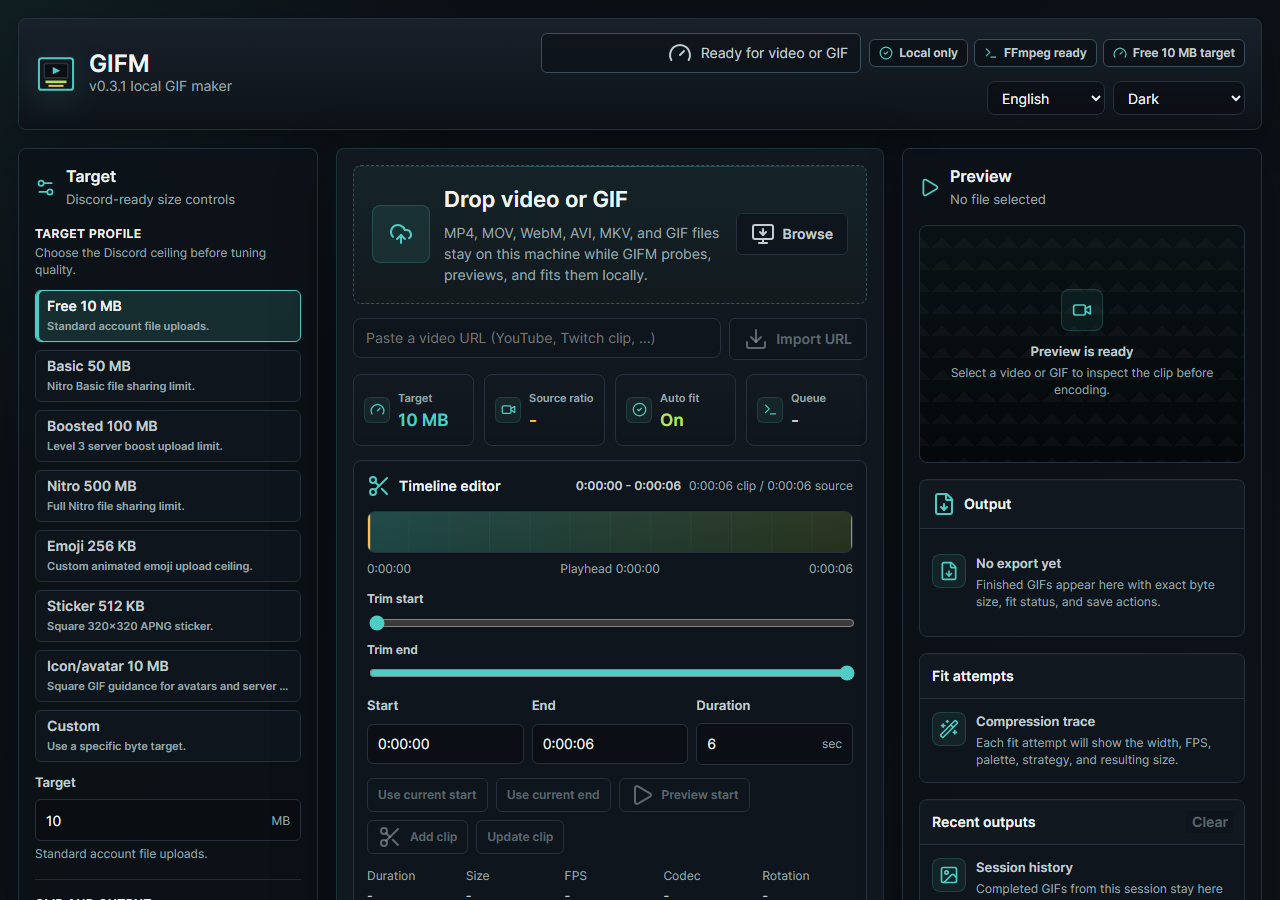
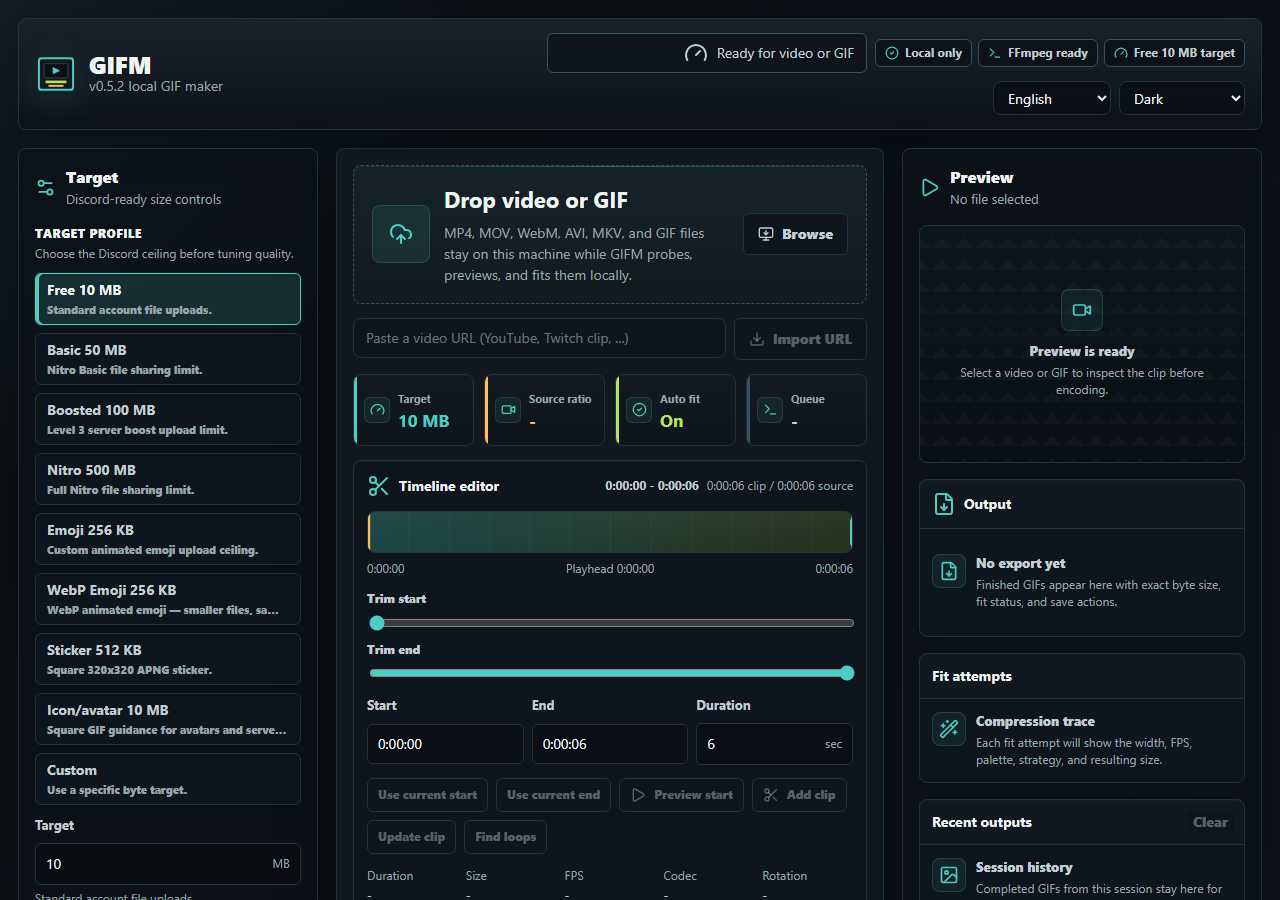
test: stabilize smoke timing and refresh screenshot

diff --git a/CHANGELOG.md b/CHANGELOG.md
@@ -12,6 +12,7 @@
 - UX: width field minimum lowered from 160 to 120 to match the server-side validation floor, allowing narrower outputs for small-target presets.
 - i18n: dither comparison button text now uses the locale string system instead of hardcoded English.
 - Tests: 4 new isPrivateHost tests covering RFC 1918, IPv6, IPv6-mapped IPv4, and public address classification (42 total).
+- Tests: smoke health waits and the multi-attempt cleanup assertion now allow slower VMware shared-folder startup/encode timing.
 - Drag-to-select on the timeline rail: click and drag directly on the timeline rail to set start/end trim points in one gesture. Crosshair cursor indicates the interactive area.
 - Debounced settings and clip persistence: slider drags and rapid setting changes no longer hammer localStorage on every tick — writes are debounced with a 400ms trailing edge and flushed on unmount.
 - Parallel thumbnail extraction: a single FFmpeg command with a select filter now extracts all timeline thumbnails in one pass instead of spawning one process per frame (3-5x faster).